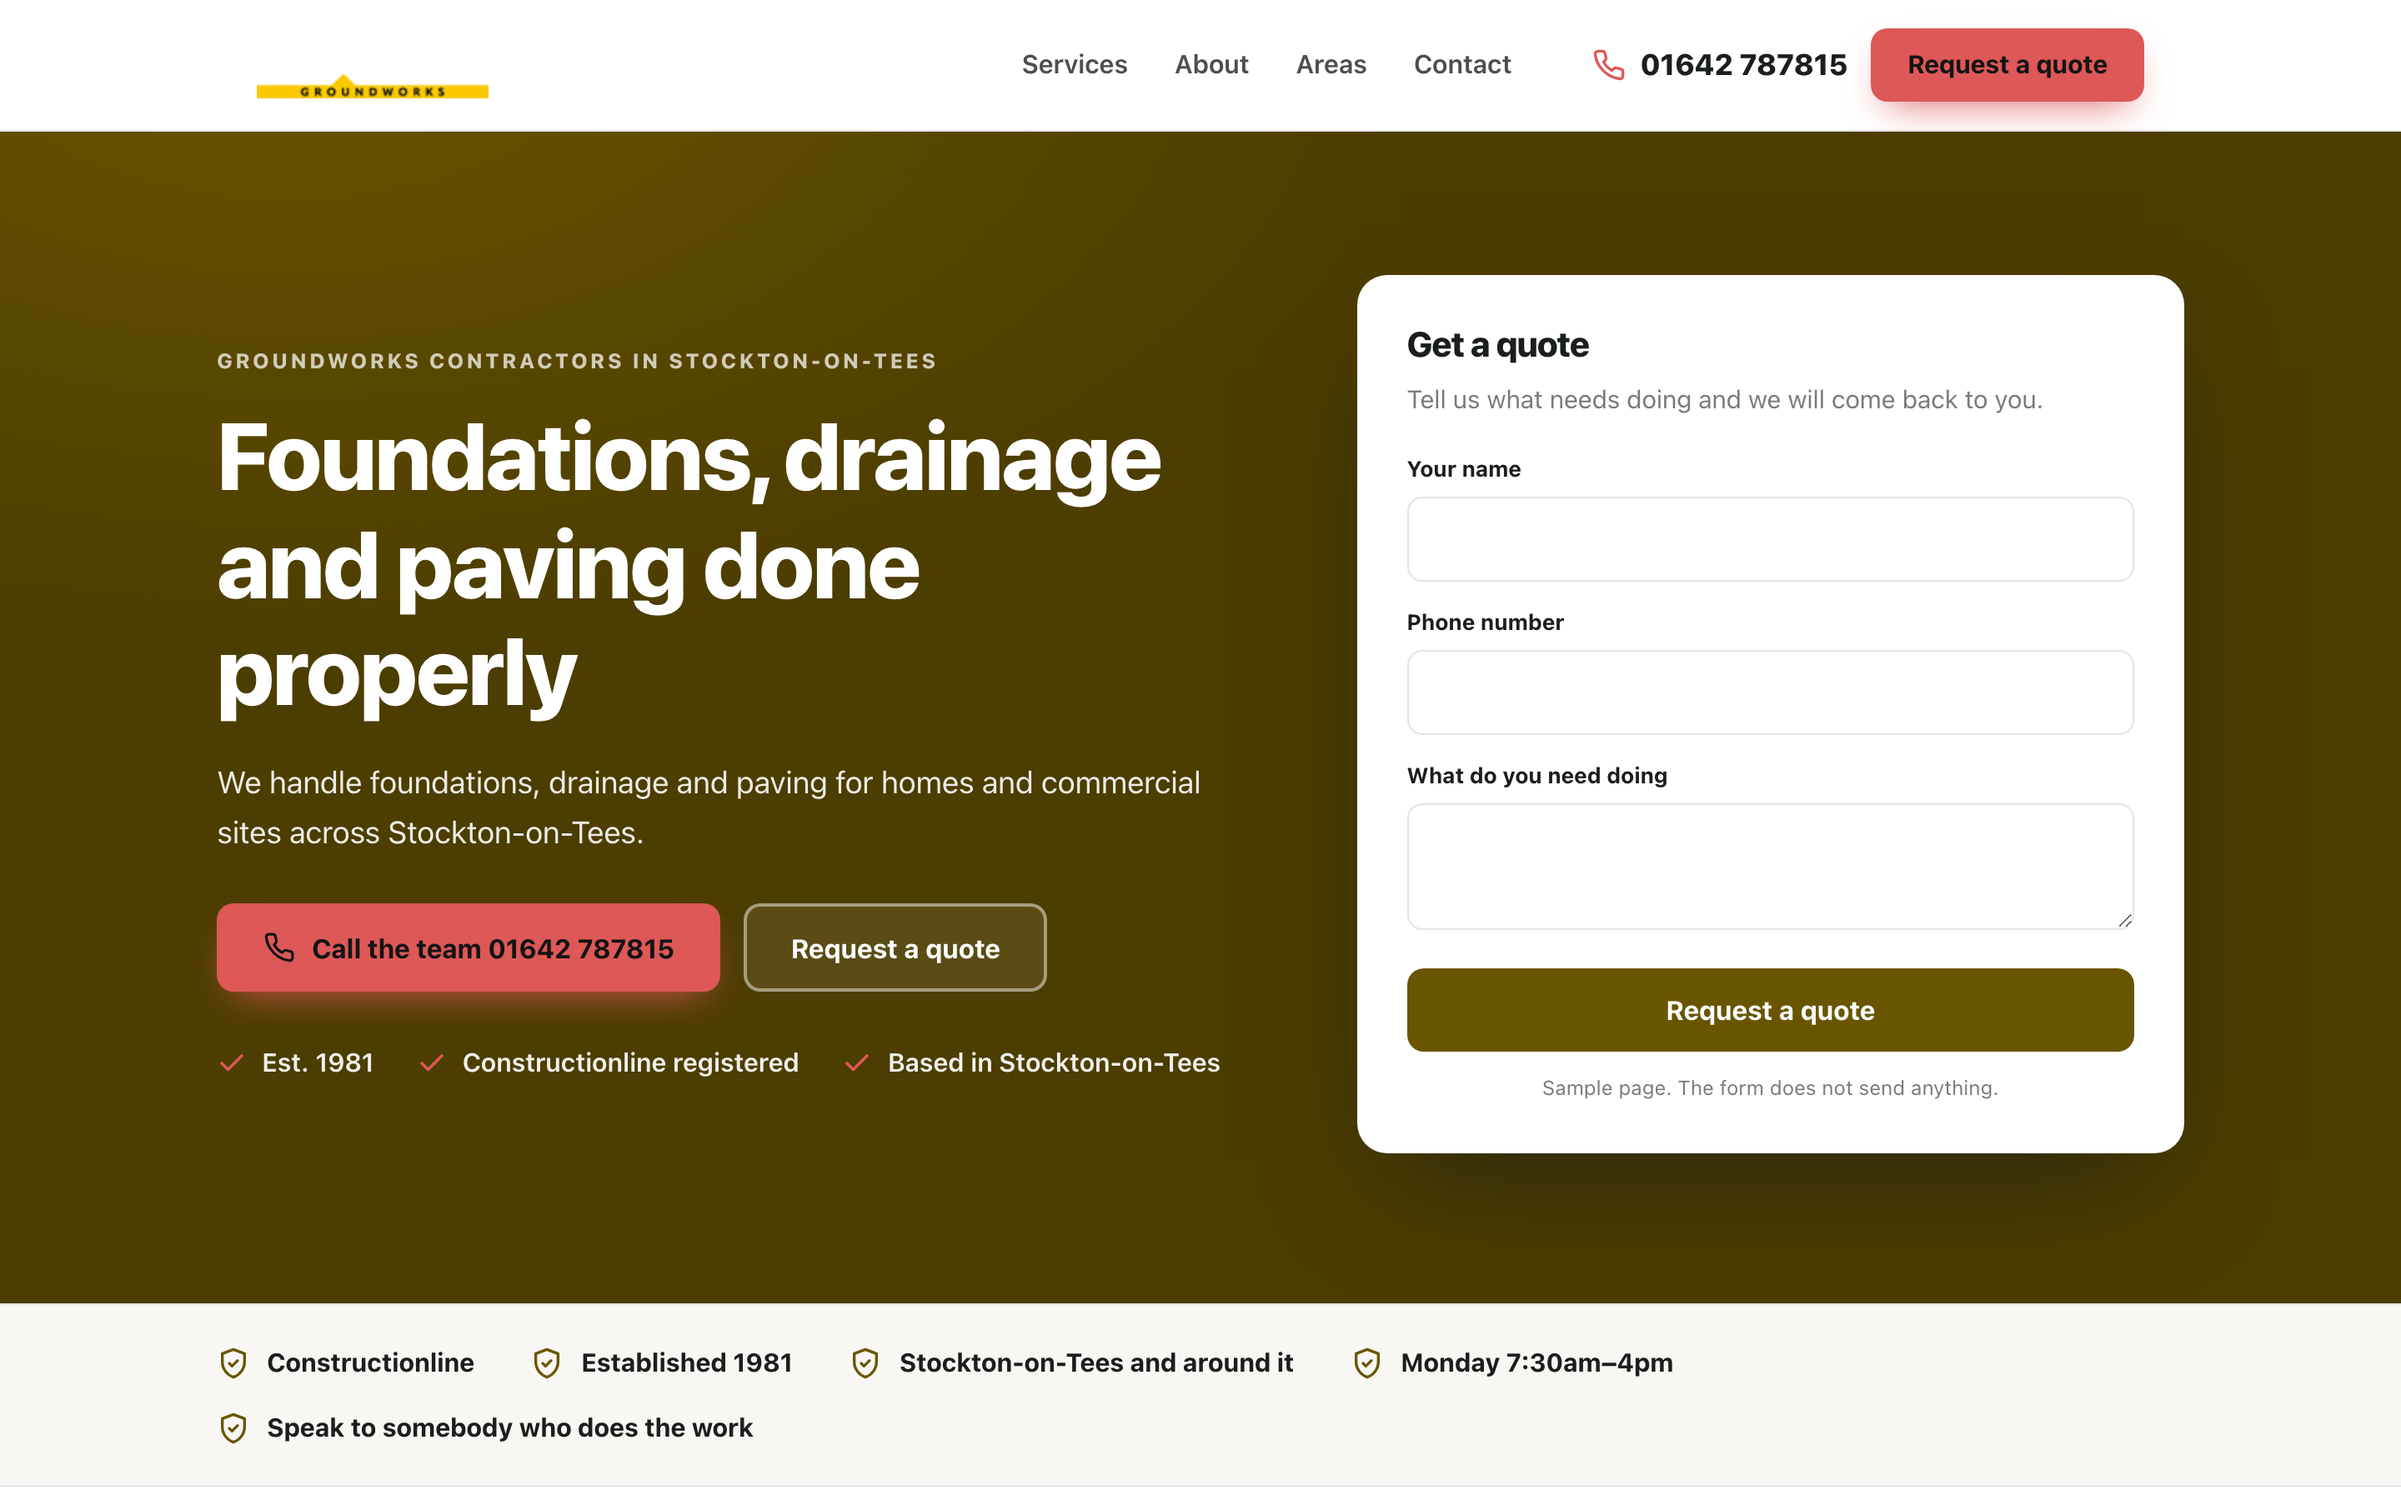
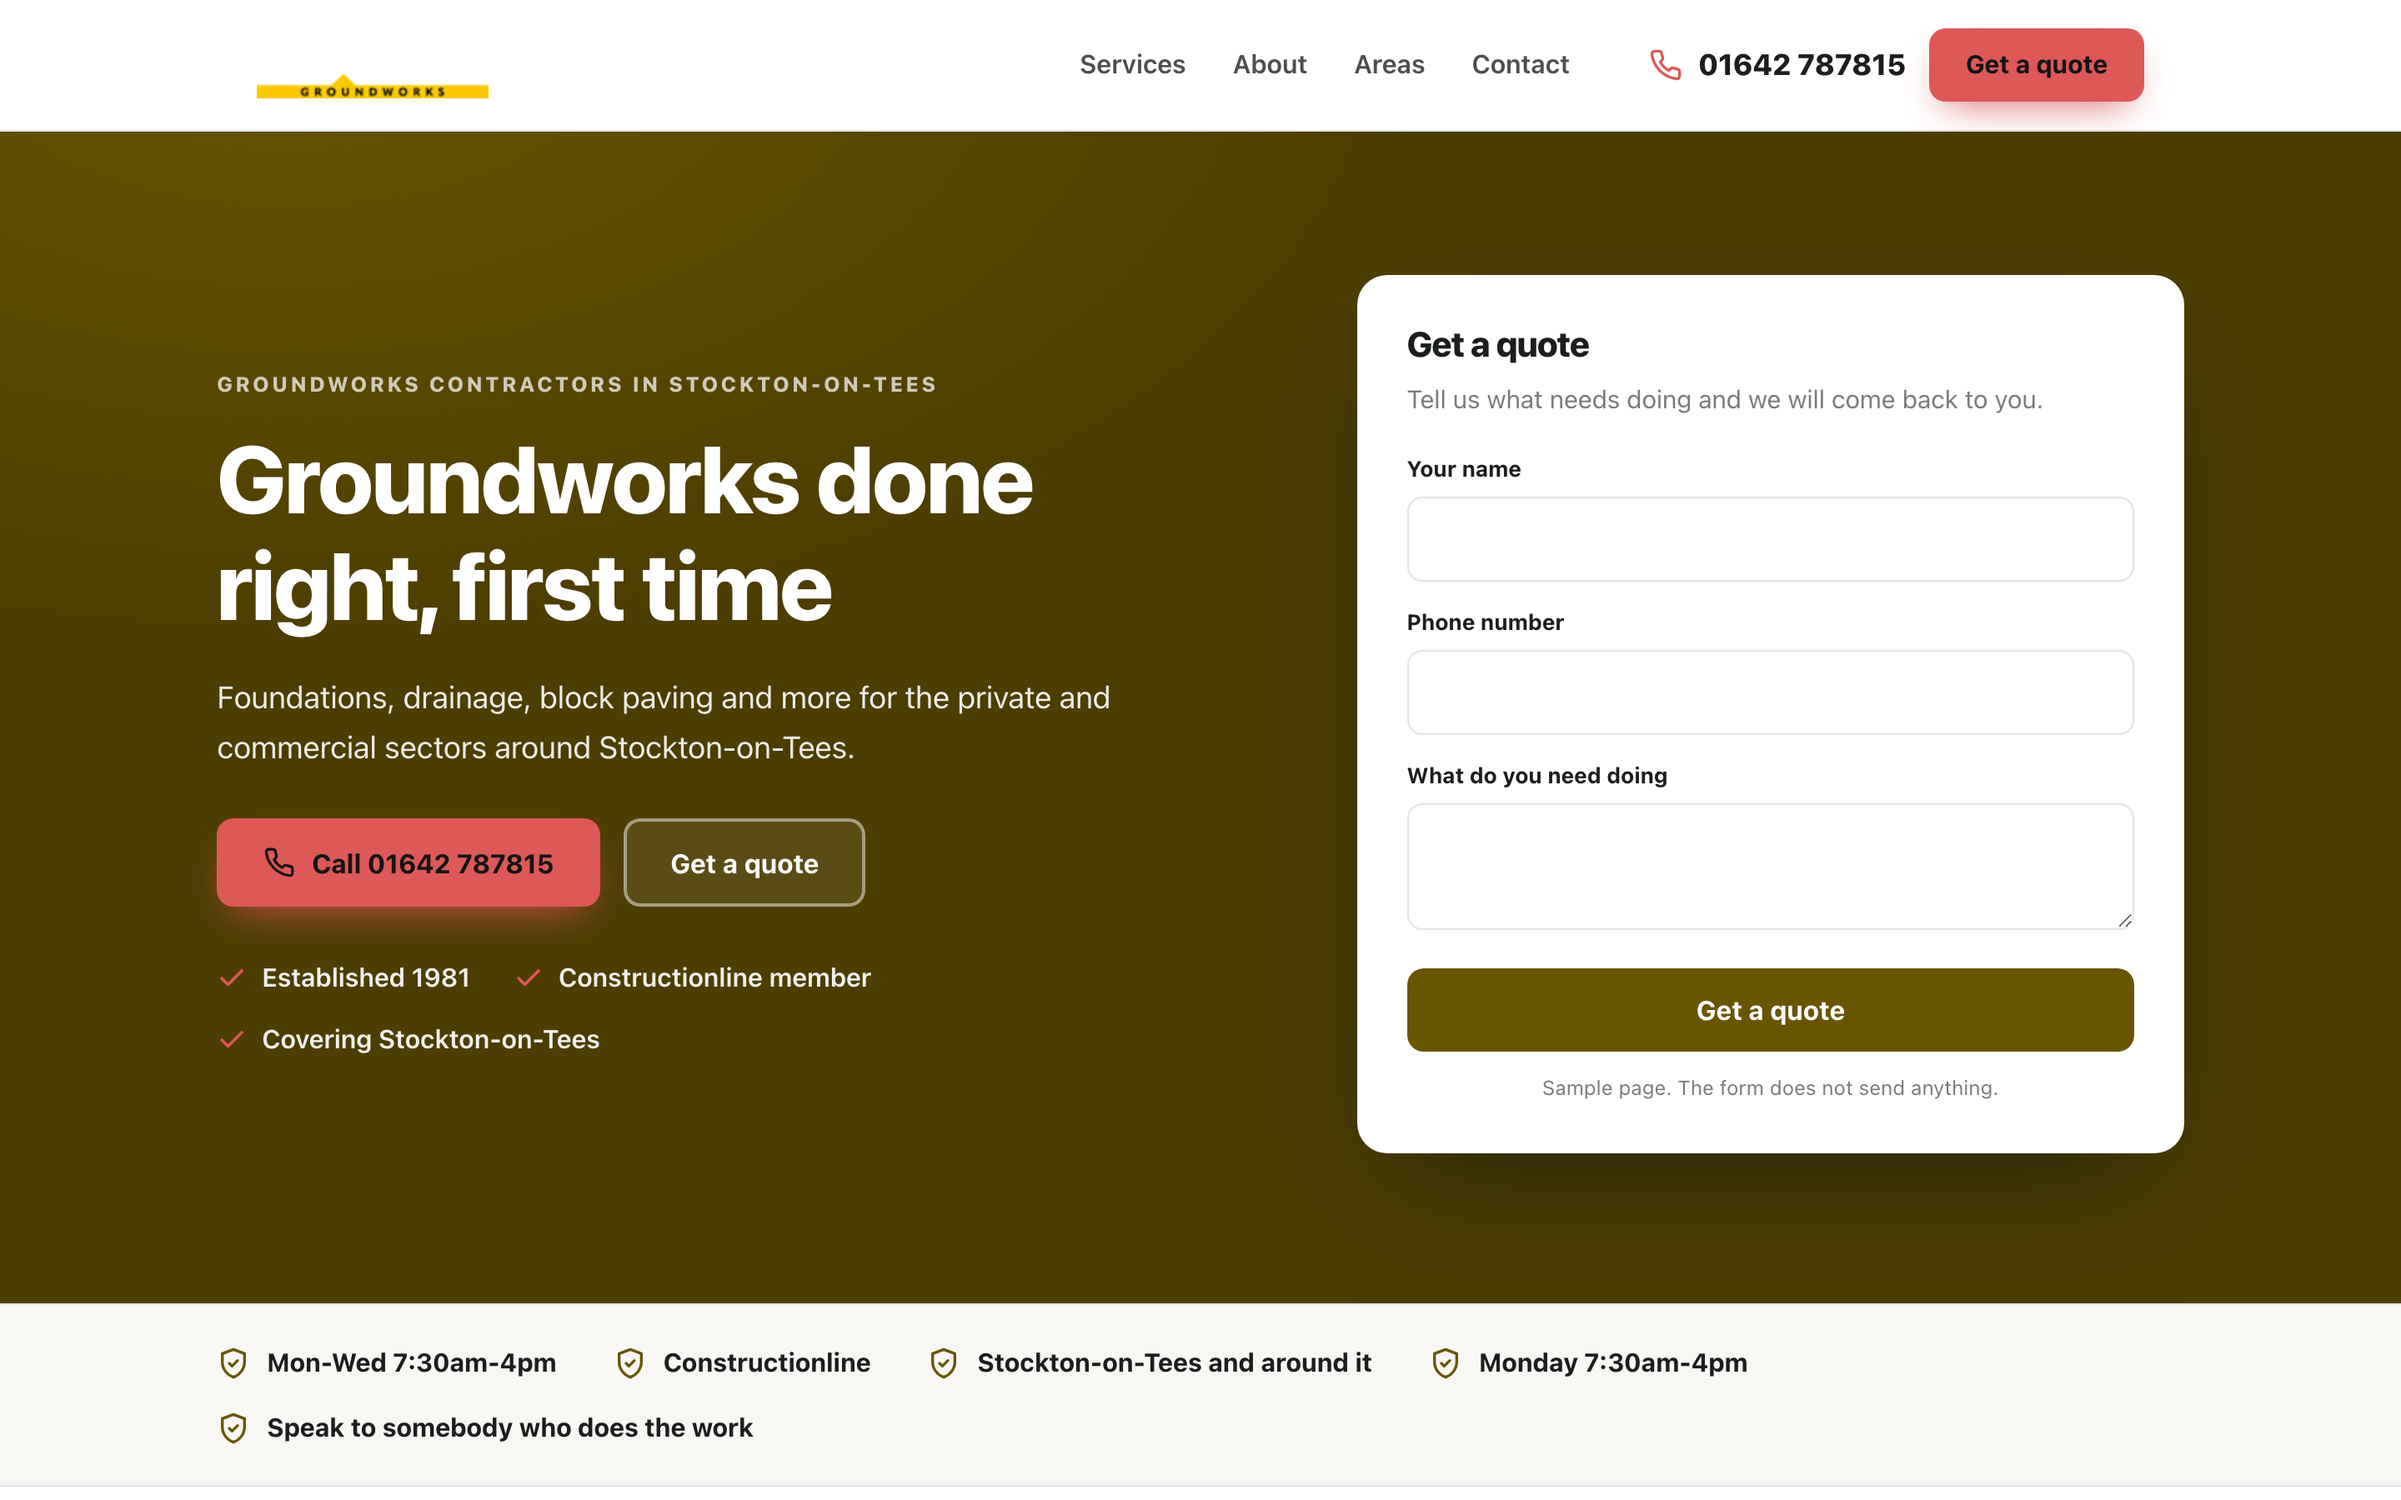
Sample homepage for Cowan Groundworks

diff --git a/docs/8f1b2ad6e8/index.html b/docs/8f1b2ad6e8/index.html
@@ -4,12 +4,13 @@
 <meta charset="utf-8">
 <meta name="viewport" content="width=device-width, initial-scale=1">
 <meta name="robots" content="noindex,nofollow">
+<meta name="aso-build" content="">
 <title>Cowan Groundworks sample homepage</title>
-<meta name="description" content="We handle foundations, drainage and paving for homes and commercial sites across Stockton-on-Tees.">
+<meta name="description" content="Foundations, drainage, block paving and more for the private and commercial sectors around Stockton-on-Tees.">
 <link rel="canonical" href="https://markygff.github.io/aso-mockups/8f1b2ad6e8/">
 <meta property="og:type" content="website">
 <meta property="og:title" content="Cowan Groundworks sample homepage">
-<meta property="og:description" content="We handle foundations, drainage and paving for homes and commercial sites across Stockton-on-Tees.">
+<meta property="og:description" content="Foundations, drainage, block paving and more for the private and commercial sectors around Stockton-on-Tees.">
 <meta property="og:url" content="https://markygff.github.io/aso-mockups/8f1b2ad6e8/">
 <style>
 :root{
@@ -52,7 +53,8 @@ p{margin:0}
 .nav{display:flex;gap:28px;margin-left:auto;font-weight:600;font-size:.97rem;color:var(--ink)}
 .nav span{opacity:.78}
 .header-cta{display:flex;align-items:center;gap:14px;margin-left:28px}
-.tel{display:flex;align-items:center;gap:9px;font-weight:800;font-size:1.1rem;color:var(--ink)}
+.tel{display:flex;align-items:center;gap:9px;font-weight:800;font-size:1.1rem;
+     color:var(--ink);text-decoration:none}
 .tel svg{width:20px;height:20px;color:var(--accent)}
 .header-cta .btn{padding:12px 20px;font-size:.95rem}
 
@@ -119,13 +121,13 @@ p{margin:0}
 <header class="header">
   <div class="wrap header-in">
     <div class="brand">
-<img src="https://www.cowangroundworks.com/uploads/1/3/4/6/134614060/published/white-logo.png?1683716910" alt="Cowan Groundworks logo">    </div>
+<img src="img/logo.png" alt="Cowan Groundworks logo">    </div>
     <nav class="nav">
       <span>Services</span><span>About</span><span>Areas</span><span>Contact</span>
     </nav>
     <div class="header-cta">
-      <span class="tel"><svg viewBox="0 0 24 24" fill="none" stroke="currentColor" stroke-width="2" stroke-linecap="round" stroke-linejoin="round" aria-hidden="true"><path d="M22 16.9v3a2 2 0 0 1-2.2 2 19.8 19.8 0 0 1-8.6-3.1 19.5 19.5 0 0 1-6-6 19.8 19.8 0 0 1-3.1-8.7A2 2 0 0 1 4.1 2h3a2 2 0 0 1 2 1.7c.1 1 .4 1.9.7 2.8a2 2 0 0 1-.5 2.1L8.1 9.9a16 16 0 0 0 6 6l1.3-1.2a2 2 0 0 1 2.1-.5c.9.3 1.8.6 2.8.7a2 2 0 0 1 1.7 2z"/></svg><span>01642 787815</span></span>
-      <span class="btn btn-accent">Request a quote</span>
+      <a class="tel" href="tel:+441642787815"><svg viewBox="0 0 24 24" fill="none" stroke="currentColor" stroke-width="2" stroke-linecap="round" stroke-linejoin="round" aria-hidden="true"><path d="M22 16.9v3a2 2 0 0 1-2.2 2 19.8 19.8 0 0 1-8.6-3.1 19.5 19.5 0 0 1-6-6 19.8 19.8 0 0 1-3.1-8.7A2 2 0 0 1 4.1 2h3a2 2 0 0 1 2 1.7c.1 1 .4 1.9.7 2.8a2 2 0 0 1-.5 2.1L8.1 9.9a16 16 0 0 0 6 6l1.3-1.2a2 2 0 0 1 2.1-.5c.9.3 1.8.6 2.8.7a2 2 0 0 1 1.7 2z"/></svg><span>01642 787815</span></a>
+      <span class="btn btn-accent">Get a quote</span>
     </div>
   </div>
 </header>
@@ -135,14 +137,14 @@ p{margin:0}
   <div class="wrap hero-in">
     <div>
       <p class="eyebrow">Groundworks contractors in Stockton-on-Tees</p>
-      <h1>Foundations, drainage and paving done properly</h1>
-      <p class="hero-sub">We handle foundations, drainage and paving for homes and commercial sites across Stockton-on-Tees.</p>
+      <h1>Groundworks done right, first time</h1>
+      <p class="hero-sub">Foundations, drainage, block paving and more for the private and commercial sectors around Stockton-on-Tees.</p>
       <div class="hero-actions">
-        <span class="btn btn-accent"><svg viewBox="0 0 24 24" fill="none" stroke="currentColor" stroke-width="2" stroke-linecap="round" stroke-linejoin="round" aria-hidden="true"><path d="M22 16.9v3a2 2 0 0 1-2.2 2 19.8 19.8 0 0 1-8.6-3.1 19.5 19.5 0 0 1-6-6 19.8 19.8 0 0 1-3.1-8.7A2 2 0 0 1 4.1 2h3a2 2 0 0 1 2 1.7c.1 1 .4 1.9.7 2.8a2 2 0 0 1-.5 2.1L8.1 9.9a16 16 0 0 0 6 6l1.3-1.2a2 2 0 0 1 2.1-.5c.9.3 1.8.6 2.8.7a2 2 0 0 1 1.7 2z"/></svg>Call the team 01642 787815</span>
-        <span class="btn btn-ghost">Request a quote</span>
+        <span class="btn btn-accent"><svg viewBox="0 0 24 24" fill="none" stroke="currentColor" stroke-width="2" stroke-linecap="round" stroke-linejoin="round" aria-hidden="true"><path d="M22 16.9v3a2 2 0 0 1-2.2 2 19.8 19.8 0 0 1-8.6-3.1 19.5 19.5 0 0 1-6-6 19.8 19.8 0 0 1-3.1-8.7A2 2 0 0 1 4.1 2h3a2 2 0 0 1 2 1.7c.1 1 .4 1.9.7 2.8a2 2 0 0 1-.5 2.1L8.1 9.9a16 16 0 0 0 6 6l1.3-1.2a2 2 0 0 1 2.1-.5c.9.3 1.8.6 2.8.7a2 2 0 0 1 1.7 2z"/></svg>Call 01642 787815</span>
+        <span class="btn btn-ghost">Get a quote</span>
       </div>
       <ul class="hero-bullets">
-<li><svg viewBox="0 0 24 24" fill="none" stroke="currentColor" stroke-width="2.4" stroke-linecap="round" stroke-linejoin="round" aria-hidden="true"><path d="M20 6 9 17l-5-5"/></svg><span>Est. 1981</span></li><li><svg viewBox="0 0 24 24" fill="none" stroke="currentColor" stroke-width="2.4" stroke-linecap="round" stroke-linejoin="round" aria-hidden="true"><path d="M20 6 9 17l-5-5"/></svg><span>Constructionline registered</span></li><li><svg viewBox="0 0 24 24" fill="none" stroke="currentColor" stroke-width="2.4" stroke-linecap="round" stroke-linejoin="round" aria-hidden="true"><path d="M20 6 9 17l-5-5"/></svg><span>Based in Stockton-on-Tees</span></li>      </ul>
+<li><svg viewBox="0 0 24 24" fill="none" stroke="currentColor" stroke-width="2.4" stroke-linecap="round" stroke-linejoin="round" aria-hidden="true"><path d="M20 6 9 17l-5-5"/></svg><span>Established 1981</span></li><li><svg viewBox="0 0 24 24" fill="none" stroke="currentColor" stroke-width="2.4" stroke-linecap="round" stroke-linejoin="round" aria-hidden="true"><path d="M20 6 9 17l-5-5"/></svg><span>Constructionline member</span></li><li><svg viewBox="0 0 24 24" fill="none" stroke="currentColor" stroke-width="2.4" stroke-linecap="round" stroke-linejoin="round" aria-hidden="true"><path d="M20 6 9 17l-5-5"/></svg><span>Covering Stockton-on-Tees</span></li>      </ul>
     </div>
     <div class="quote-card">
       <h3>Get a quote</h3>
@@ -150,7 +152,7 @@ p{margin:0}
       <div class="field"><label>Your name</label><input type="text" disabled></div>
       <div class="field"><label>Phone number</label><input type="tel" disabled></div>
       <div class="field"><label>What do you need doing</label><textarea disabled></textarea></div>
-      <span class="btn btn-primary">Request a quote</span>
+      <span class="btn btn-primary">Get a quote</span>
       <p class="sample-note">Sample page. The form does not send anything.</p>
     </div>
   </div>
@@ -158,10 +160,10 @@ p{margin:0}
 
 <div class="strip">
   <div class="wrap strip-in">
+    <div class="strip-item"><svg viewBox="0 0 24 24" fill="none" stroke="currentColor" stroke-width="2" stroke-linecap="round" stroke-linejoin="round" aria-hidden="true"><path d="M12 2 4 5v6c0 5 3.4 9.4 8 11 4.6-1.6 8-6 8-11V5z"/><path d="m9 12 2 2 4-4"/></svg><span>Mon-Wed 7:30am-4pm</span></div>
     <div class="strip-item"><svg viewBox="0 0 24 24" fill="none" stroke="currentColor" stroke-width="2" stroke-linecap="round" stroke-linejoin="round" aria-hidden="true"><path d="M12 2 4 5v6c0 5 3.4 9.4 8 11 4.6-1.6 8-6 8-11V5z"/><path d="m9 12 2 2 4-4"/></svg><span>Constructionline</span></div>
-    <div class="strip-item"><svg viewBox="0 0 24 24" fill="none" stroke="currentColor" stroke-width="2" stroke-linecap="round" stroke-linejoin="round" aria-hidden="true"><path d="M12 2 4 5v6c0 5 3.4 9.4 8 11 4.6-1.6 8-6 8-11V5z"/><path d="m9 12 2 2 4-4"/></svg><span>Established 1981</span></div>
     <div class="strip-item"><svg viewBox="0 0 24 24" fill="none" stroke="currentColor" stroke-width="2" stroke-linecap="round" stroke-linejoin="round" aria-hidden="true"><path d="M12 2 4 5v6c0 5 3.4 9.4 8 11 4.6-1.6 8-6 8-11V5z"/><path d="m9 12 2 2 4-4"/></svg><span>Stockton-on-Tees and around it</span></div>
-    <div class="strip-item"><svg viewBox="0 0 24 24" fill="none" stroke="currentColor" stroke-width="2" stroke-linecap="round" stroke-linejoin="round" aria-hidden="true"><path d="M12 2 4 5v6c0 5 3.4 9.4 8 11 4.6-1.6 8-6 8-11V5z"/><path d="m9 12 2 2 4-4"/></svg><span>Monday 7:30am–4pm</span></div>
+    <div class="strip-item"><svg viewBox="0 0 24 24" fill="none" stroke="currentColor" stroke-width="2" stroke-linecap="round" stroke-linejoin="round" aria-hidden="true"><path d="M12 2 4 5v6c0 5 3.4 9.4 8 11 4.6-1.6 8-6 8-11V5z"/><path d="m9 12 2 2 4-4"/></svg><span>Monday 7:30am-4pm</span></div>
     <div class="strip-item"><svg viewBox="0 0 24 24" fill="none" stroke="currentColor" stroke-width="2" stroke-linecap="round" stroke-linejoin="round" aria-hidden="true"><path d="M12 2 4 5v6c0 5 3.4 9.4 8 11 4.6-1.6 8-6 8-11V5z"/><path d="m9 12 2 2 4-4"/></svg><span>Speak to somebody who does the work</span></div>
   </div>
 </div>
@@ -171,23 +173,23 @@ p{margin:0}
     <div class="services-head">
       <p class="eyebrow">What we do</p>
       <h2>Cowan Groundworks, Stockton-on-Tees</h2>
-      <p>We handle foundations, drainage and paving for homes and commercial sites across Stockton-on-Tees.</p>
+      <p>Foundations, drainage, block paving and more for the private and commercial sectors around Stockton-on-Tees.</p>
     </div>
     <div class="grid">
       <article class="card">
         <div class="icon"><svg viewBox="0 0 24 24" fill="none" stroke="currentColor" stroke-width="2" stroke-linecap="round" stroke-linejoin="round" aria-hidden="true"><path d="M14.7 6.3a4 4 0 0 0 5.3 5.3l-8 8a3 3 0 0 1-4.2-4.2z"/><path d="m14.7 6.3 3-3"/></svg></div>
         <h3>Foundations &amp; Excavation</h3>
-        <p>We dig and lay foundations for housing and commercial builds.</p>
+        <p>Rafts, slabs, suspended slabs, block and beam, and footings.</p>
       </article>
       <article class="card">
         <div class="icon"><svg viewBox="0 0 24 24" fill="none" stroke="currentColor" stroke-width="2" stroke-linecap="round" stroke-linejoin="round" aria-hidden="true"><path d="M13 2 4 14h7l-1 8 9-12h-7z"/></svg></div>
         <h3>Block Paving &amp; Flagging</h3>
-        <p>We lay driveways, footpaths and patios in block paving or flags.</p>
+        <p>Driveways, footpaths and patios finished in flagging or block paving.</p>
       </article>
       <article class="card">
         <div class="icon"><svg viewBox="0 0 24 24" fill="none" stroke="currentColor" stroke-width="2" stroke-linecap="round" stroke-linejoin="round" aria-hidden="true"><path d="M3 10.5 12 3l9 7.5"/><path d="M5 9.5V21h14V9.5"/><path d="M10 21v-6h4v6"/></svg></div>
         <h3>Drainage</h3>
-        <p>We install drainage for housing, land drainage and equestrian arenas.</p>
+        <p>Drainage for house building, land drains and equestrian arenas.</p>
       </article>
     </div>
   </div>
